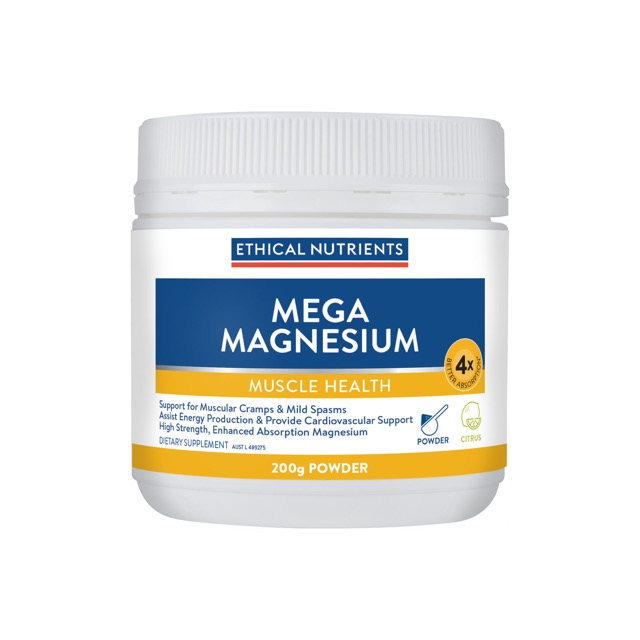
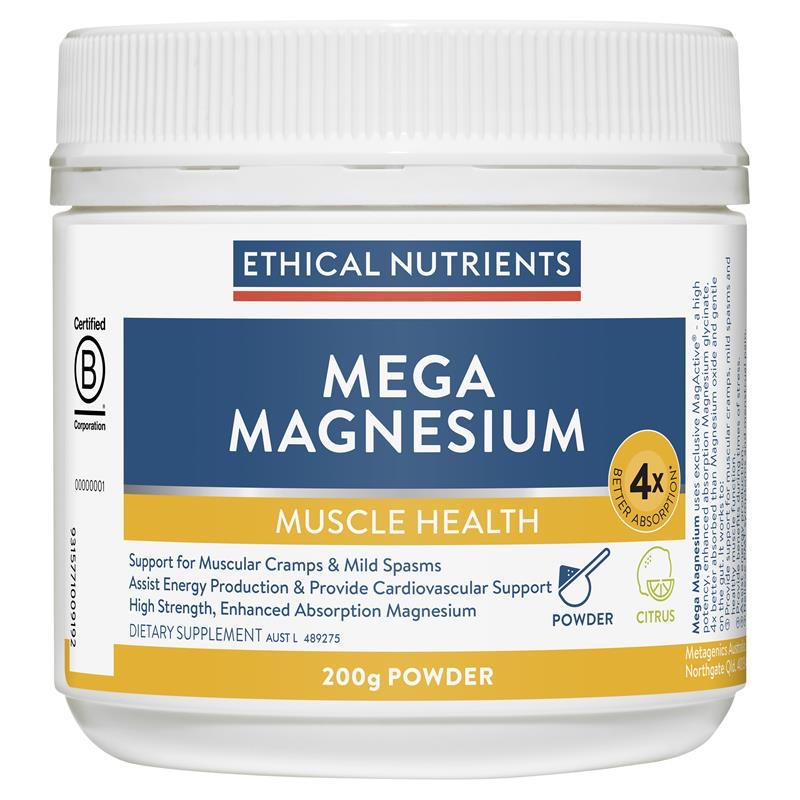
fix(sources): backfill valerian product photos + high-res magnesium re-fetch
- valerian: 9 product photos (8 Chemist Warehouse @user + NOW @user),
  wired imagePath on each; Gaia/MediHerb/Flordis keep the fallback tile
  (no clean >=700px source, a designed state per SOURCE_SCORECARD_UI.md)
- magnesium: re-fetch Doctor's Best + Thorne @user and Ethical Nutrients
  @user, replacing the upscaled ~640px/30-45KB versions that read mushy

diff --git a/src/data/source-scorecards/valerian.ts b/src/data/source-scorecards/valerian.ts
@@ -96,6 +96,7 @@ const VALERIAN_COMMUNITY = [
 export const VALERIAN_SOURCES: ValProduct[] = [
   {
     slug: 'blackmores-valerian-forte',
+    imagePath: '/images/sources/valerian/blackmores-valerian-forte.jpg',
     brand: 'Blackmores',
     productName: 'Valerian Forte',
     bottomLine:
@@ -123,6 +124,7 @@ export const VALERIAN_SOURCES: ValProduct[] = [
   },
   {
     slug: 'carusos-valerian',
+    imagePath: '/images/sources/valerian/carusos-valerian.jpg',
     brand: "Caruso's",
     productName: 'Valerian',
     bottomLine:
@@ -150,6 +152,7 @@ export const VALERIAN_SOURCES: ValProduct[] = [
   },
   {
     slug: 'thompsons-one-a-day-valerian-2000',
+    imagePath: '/images/sources/valerian/thompsons-one-a-day-valerian-2000.jpg',
     brand: "Thompson's",
     productName: 'One-A-Day Valerian 2000',
     bottomLine:
@@ -177,6 +180,7 @@ export const VALERIAN_SOURCES: ValProduct[] = [
   },
   {
     slug: 'natures-own-valerian-forte-2000',
+    imagePath: '/images/sources/valerian/natures-own-valerian-forte-2000.jpg',
     brand: "Nature's Own",
     productName: 'Valerian Forte 2000',
     bottomLine:
@@ -204,6 +208,7 @@ export const VALERIAN_SOURCES: ValProduct[] = [
   },
   {
     slug: 'blackmores-deep-sleep',
+    imagePath: '/images/sources/valerian/blackmores-deep-sleep.jpg',
     brand: 'Blackmores',
     productName: 'Deep Sleep',
     bottomLine:
@@ -231,6 +236,7 @@ export const VALERIAN_SOURCES: ValProduct[] = [
   },
   {
     slug: 'swisse-ultiboost-sleep',
+    imagePath: '/images/sources/valerian/swisse-ultiboost-sleep.jpg',
     brand: 'Swisse',
     productName: 'Ultiboost Sleep',
     bottomLine:
@@ -258,6 +264,7 @@ export const VALERIAN_SOURCES: ValProduct[] = [
   },
   {
     slug: 'natures-own-sleep-ezy',
+    imagePath: '/images/sources/valerian/natures-own-sleep-ezy.jpg',
     brand: "Nature's Own",
     productName: 'Sleep Ezy',
     bottomLine:
@@ -312,6 +319,7 @@ export const VALERIAN_SOURCES: ValProduct[] = [
   },
   {
     slug: 'bioceuticals-sleep-complex',
+    imagePath: '/images/sources/valerian/bioceuticals-sleep-complex.jpg',
     brand: 'BioCeuticals',
     productName: 'Sleep Complex',
     bottomLine:
@@ -370,6 +378,7 @@ export const VALERIAN_SOURCES: ValProduct[] = [
   },
   {
     slug: 'now-foods-valerian-root-500',
+    imagePath: '/images/sources/valerian/now-foods-valerian-root-500.jpg',
     brand: 'NOW Foods',
     productName: 'Valerian Root 500 mg',
     bottomLine: